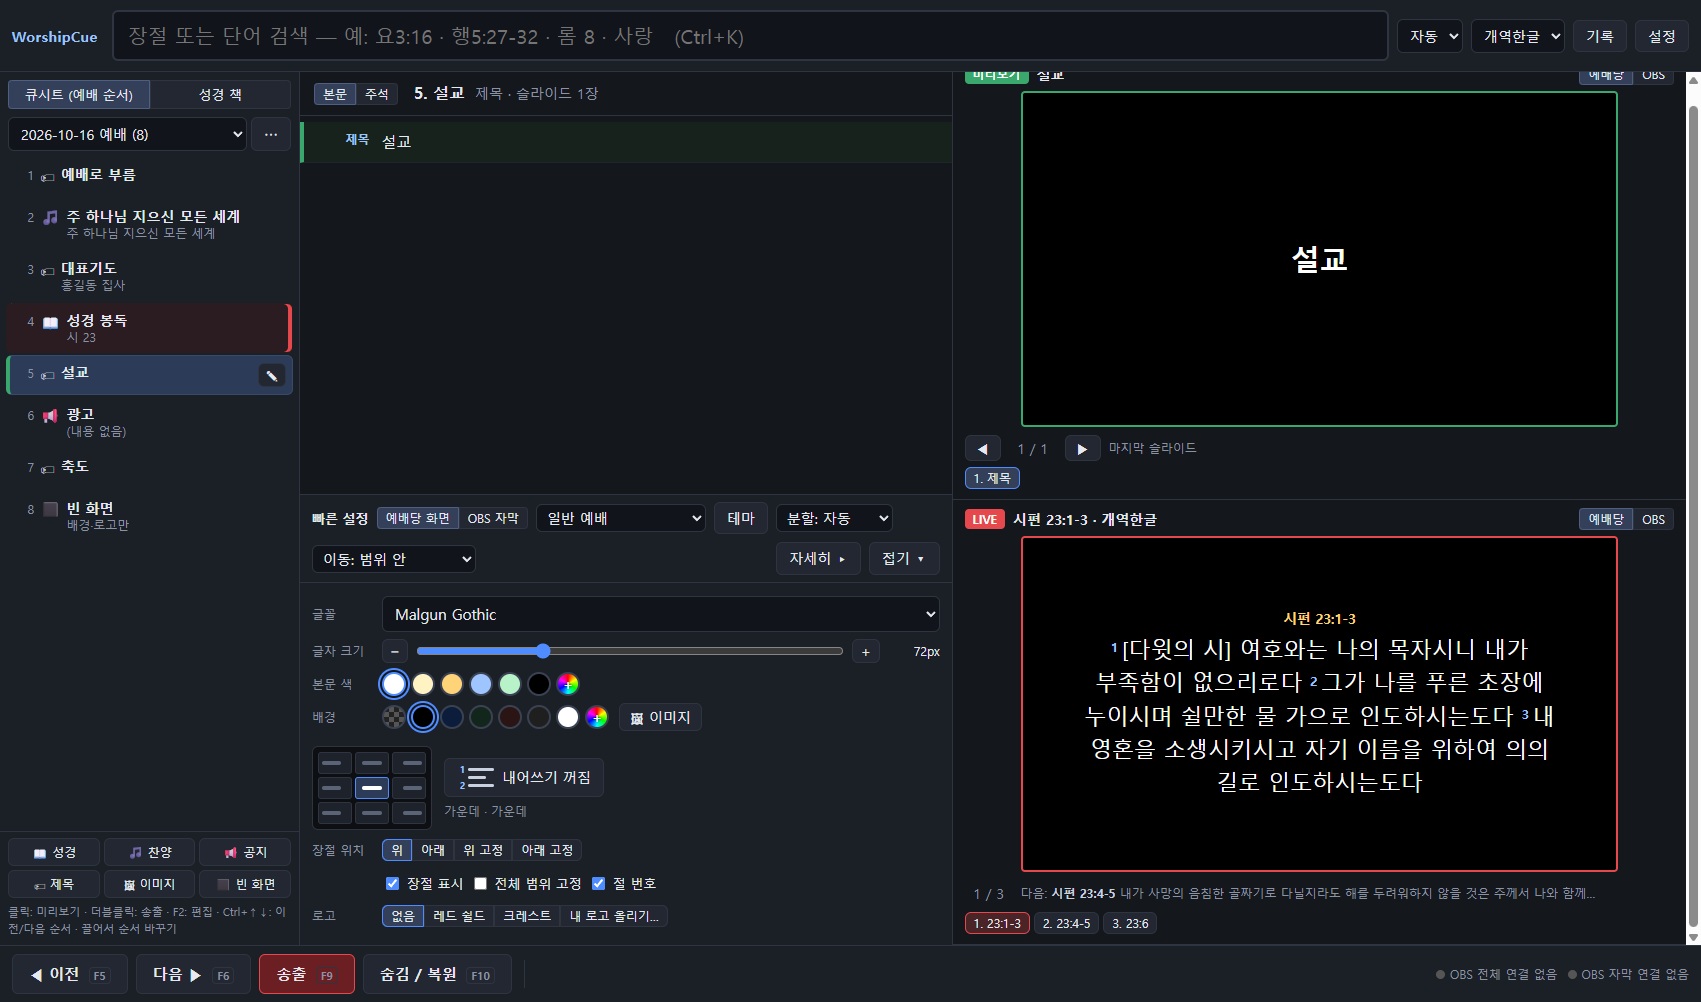
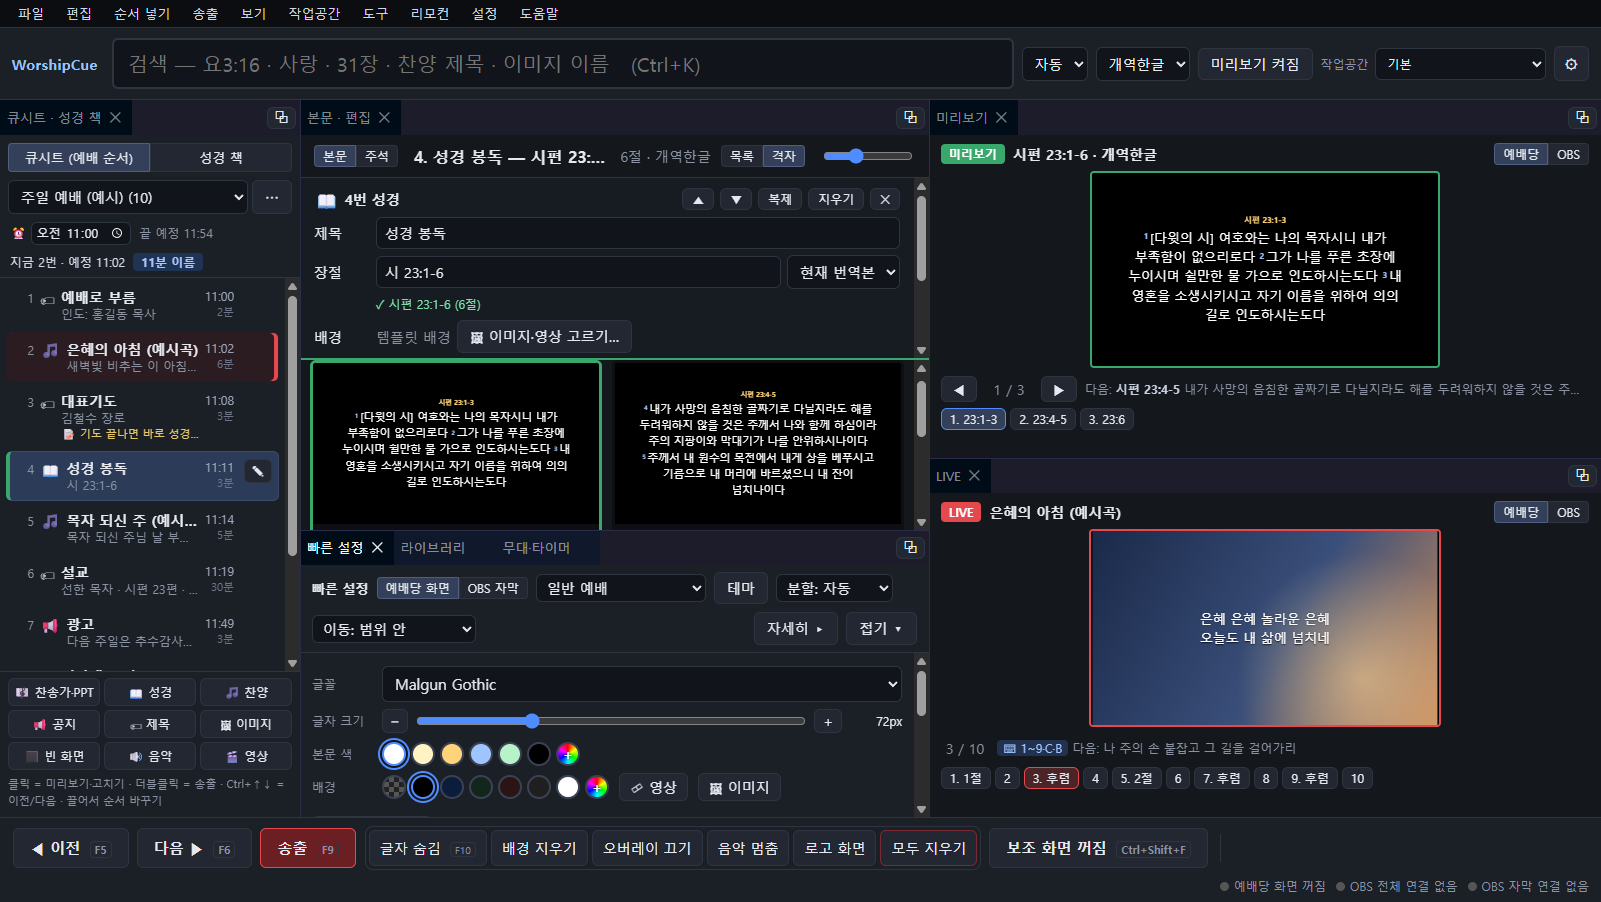
사용법 안내 스크린샷 · 작업공간 배치 다듬기 · 순서 배경 위 가사 안 보이던 문제
- README 에 '그림으로 보는 사용법' (예배 준비·예배 중·무대 화면·리모컨·작업공간), 스크린샷은 예시 데이터(가상 이름·직접 지은 가사·개역한글)로 촬영
- 사용자 설명서: 작업공간(2-H), 리모컨 메뉴, 화면 구성 갱신
- 고침: 순서별 배경 이미지가 있는 찬양·공지에서 가사가 배경 아래로 가려지던 문제
- 예배 준비·예배 중 작업공간에서 미리보기·LIVE 가 위쪽 절반에 갇히던 배치 순서
- 슬라이드 단추 '2. 2' → '2', 가운데 머리 한 줄, AI·작업공간 창 높이 자동

diff --git a/src/web/control/control.js b/src/web/control/control.js
@@ -334,6 +334,8 @@
   async function directSend() {
     if (directMode() && Date.now() - lastUserAct < 2500) await sendPreview();
   }
+  /** 슬라이드 단추 글: '3. 후렴' (이름이 번호와 같으면 번호만) */
+  const chipLabel = (i, t) => (t && String(t) !== String(i + 1) ? `${i + 1}. ${t}` : String(i + 1));
   function renderStudio() {
     const b = $('#btnStudio');
     if (!b || !app.state) return;
@@ -414,7 +416,7 @@
     $('#pvCount').textContent = `${p.index + 1} / ${p.slides.length}`;
     const nx = p.slides[p.index + 1];
     $('#pvNextHint').innerHTML = nx ? `다음: <b>${esc(nx.ref)}</b> ${esc(slideSnippet(nx))}` : '<span>마지막 슬라이드</span>';
-    $('#pvSlides').innerHTML = p.slides.map((s, i) => `<button data-i="${i}" class="${i === p.index ? 'on' : ''}" title="${esc(slideSnippet(s))}">${i + 1}. ${esc(s.label || shortRef(s.ref) || slideSnippet(s).slice(0, 12))}</button>`).join('');
+    $('#pvSlides').innerHTML = p.slides.map((s, i) => `<button data-i="${i}" class="${i === p.index ? 'on' : ''}" title="${esc(slideSnippet(s))}">${esc(chipLabel(i, s.label || shortRef(s.ref) || slideSnippet(s).slice(0, 12)))}</button>`).join('');
     $('#pvSlides button.on')?.scrollIntoView({ block: 'nearest' });
     updateCommentary();
     if (window.BCGrid) window.BCGrid.update();
@@ -462,7 +464,7 @@
     $('#lvNextHint').title = hasJump ? '찬양 바로 가기: 1~9 = 절 · C = 후렴 · B = 브릿지 · E = 엔딩' : '';
     $('#lvNextHint').innerHTML = (hasJump ? '<span class="jump-hint">⌨ 1~9·C·B</span> ' : '') + (nx ? `다음: <b>${esc(nx.ref)}</b> ${esc(slideSnippet(nx))}`
       : settings().navMode === 'continuous' ? '범위 끝 — F6을 누르면 다음 절로 이어갑니다' : '마지막 슬라이드');
-    $('#lvSlides').innerHTML = live.slides.map((ref, i) => `<button data-i="${i}" class="${i === live.index ? 'on' : ''}">${i + 1}. ${esc(ref.startsWith('¶') ? ref.slice(1) : shortRef(ref))}</button>`).join('');
+    $('#lvSlides').innerHTML = live.slides.map((ref, i) => `<button data-i="${i}" class="${i === live.index ? 'on' : ''}">${esc(chipLabel(i, ref.startsWith('¶') ? ref.slice(1) : shortRef(ref)))}</button>`).join('');
     $('#lvSlides button.on')?.scrollIntoView({ block: 'nearest' });
     renderVideoBar();
     renderLayerButtons();

diff --git a/src/web/control/dock.js b/src/web/control/dock.js
@@ -96,9 +96,9 @@
       api.clear();
       group(['cue']);
       group(['main'], { referencePanel: 'cue', direction: 'right' });
-      group(['library', 'quick', 'stage'], { referencePanel: 'main', direction: 'below' });
       group(['preview'], { referencePanel: 'main', direction: 'right' });
       group(['live'], { referencePanel: 'preview', direction: 'below' });
+      group(['library', 'quick', 'stage'], { referencePanel: 'main', direction: 'below' });
       size('cue', { width: 340 }); size('preview', { width: Math.round(W * 0.28) }); size('library', { height: Math.round(H * 0.45) });
     } },
     { id: 'b-live', name: '예배 중 (송출 크게)', desc: '미리보기·LIVE 를 크게, 큐시트와 슬라이드 격자, 아래에 무대·타이머', build: () => {
@@ -106,10 +106,10 @@
       api.clear();
       group(['cue']);
       group(['main'], { referencePanel: 'cue', direction: 'right' });
-      group(['stage', 'library', 'quick'], { referencePanel: 'main', direction: 'below' });
       group(['live'], { referencePanel: 'main', direction: 'right' });
       group(['preview'], { referencePanel: 'live', direction: 'below' });
-      size('cue', { width: 300 }); size('live', { width: Math.round(W * 0.5) }); size('stage', { height: Math.round(H * 0.33) });
+      group(['stage', 'library', 'quick'], { referencePanel: 'main', direction: 'below' });
+      size('cue', { width: 300 }); size('live', { width: Math.round(W * 0.48) }); size('preview', { height: Math.round(H * 0.42) }); size('stage', { height: Math.round(H * 0.4) });
       if (window.BCGrid && !window.BCGrid.isOn()) { const b = document.querySelector('#slideView [data-sv="grid"]'); if (b) b.click(); }
     } },
     { id: 'b-simple', name: '간단 (큐시트 + LIVE)', desc: '큐시트와 LIVE 만. 노트북 등 작은 화면용', build: () => {
@@ -144,6 +144,7 @@
     app.cmd('setActiveWorkspace', { id });
     if (app.state) app.state.settings.activeWorkspace = id;
     requestAnimationFrame(fitScreens);
+    setTimeout(fitScreens, 250); setTimeout(fitScreens, 700); // 배치가 다 잡힌 뒤 화면 크기 다시 맞춤
     renderWorkspaceSelect();
     app.showMsg(`작업공간: ${ws.name}`, 'ok', 1200);
   }

diff --git a/src/web/control/control.css b/src/web/control/control.css
@@ -517,3 +517,10 @@ html { overflow: hidden; }
   .ws-pick > span { display: none; }
 }
 @media (max-width: 1100px) { .brand { display: none; } }
+/* 가운데 머리: 좁아도 한 줄 (제목은 말줄임) */
+.center-head { align-items: center; flex-wrap: nowrap; min-width: 0; }
+.center-head .view-tabs { display: inline-flex; flex: none; }
+#resultTitle { min-width: 0; overflow: hidden; text-overflow: ellipsis; white-space: nowrap; flex: 0 1 auto; }
+#resultInfo { white-space: nowrap; flex: none; }
+/* 내용이 짧은 창은 내용 높이만큼 */
+.modal-box:has(.ai-form), .modal-box:has(.ws-manage) { height: auto; max-height: 90vh; width: min(980px, 94vw); }

diff --git a/src/web/shared/render.css b/src/web/shared/render.css
@@ -11,7 +11,7 @@
   display: flex; flex-direction: column;
   transition: opacity var(--bc-fade, 300ms) ease;
 }
-.bc-block { box-sizing: border-box; max-width: 100%; }
+.bc-block { box-sizing: border-box; max-width: 100%; position: relative; } /* 순서별 배경(.bc-slidebg, absolute) 위에 글자 */
 .bc-text {
   word-break: keep-all;          /* 한국어는 어절 단위 줄바꿈 */
   overflow-wrap: anywhere;

diff --git a/docs/사용자설명서.md b/docs/사용자설명서.md
@@ -24,12 +24,13 @@
 
 | 위치 | 내용 |
 |---|---|
-| 상단 | 검색창, 검색 방식(자동/장절/본문), 번역본 선택, 기록, 설정 |
+| 맨 위 | 메뉴바 (파일 · 편집 · 순서 넣기 · 송출 · 보기 · 작업공간 · 도구 · 리모컨 · 설정 · 도움말) |
+| 상단 | 검색창, 검색 방식(자동/장절/본문), 번역본, 미리보기 켜기·끄기, **작업공간** 선택칸, ⚙ 설정 |
 | 왼쪽 | **큐시트**(예배 순서) / 성경 66권 목록 탭 |
 | 가운데 | 큐시트 순서를 고르면 위쪽에 **편집칸**(입력 즉시 자동 저장), 아래에 슬라이드 목록. 성경 검색 시 찾은 본문(절 목록) 또는 본문 검색 결과. 초록 줄 = 미리보기 중인 절, 빨간 줄 = 송출 중인 절 |
 | 오른쪽 위 | **미리보기** (초록 테두리) — 송출하면 이렇게 나갑니다 |
 | 오른쪽 아래 | **LIVE** (빨간 테두리) — 지금 실제로 나가고 있는 화면. 숨김 중이면 점선 테두리와 "숨김 중" 표시 |
-| 하단 | 이전·다음·송출·숨김 버튼, 분할 방식, 이동 방식, 출력 연결 상태 |
+| 하단 | 이전·다음·송출 / 지우기 단추 묶음(글자·배경·오버레이·음악·로고·모두), 보조 화면, 출력 연결 상태 |
 
 미리보기·LIVE 오른쪽의 **예배당 / OBS** 버튼으로 각 출력 디자인을 확인할 수 있습니다.
 
@@ -45,8 +46,10 @@
 | 편집 | 고른 순서 고치기(F2)·위로·아래로·복제·지우기, 검색창, 성경 책 목록 |
 | 순서 넣기 | 찬송가·PPT, 성경, 찬양, 공지, 제목, 이미지, 영상, 음악, 빈 화면 |
 | 송출 | 송출(F9)·다음(F6)·이전(F5), 글자 숨김·배경 지우기·오버레이 끄기·음악 멈춤·로고 화면·모두 지우기, 미리보기 켜기·끄기, 보조 화면 |
-| 보기 | 패널 켜고 끄기, 목록/격자, 화면 배치, 무대 화면 창 |
+| 보기 | 패널 켜고 끄기, 목록/격자, 무대 화면 창 |
+| 작업공간 | 작업공간 바꾸기(Ctrl+Alt+1~9), 지금 배치 저장·덮어쓰기, 작업공간 관리, 패널 보이기·잠그기, 기본 배치로 |
 | 도구 | 라이브러리 각 탭, 무대 화면·설교 타이머, 휴대폰 리모컨 |
+| 리모컨 | 휴대폰 리모컨 열기(QR·주소·PIN), 켜기·끄기, PIN 바꾸기. 켜져 있으면 메뉴 이름 옆 초록 점 |
 | 설정 | 테마, 출력, 템플릿, 검색·분할, 단축키, 성경 데이터 |
 
 ## 2-B. 주보로 큐시트 만들기 (AI)
@@ -79,17 +82,33 @@
 - '무대·타이머' 패널(또는 `도구` 메뉴)에서 `🖥 무대 화면 창 열기` → 설교자 모니터로 끌어다 놓습니다. 같은 주소를 다른 PC·태블릿 브라우저나 OBS 에서 열어도 됩니다.
 - 설교 타이머: 5~40분 단추 또는 직접 입력 → 시작. 일시정지·계속·±1분·지우기. 5분 전에는 노란색, 시간이 지나면 빨간색으로 넘긴 시간(+02:13)을 보여 줍니다.
 - 무대 메시지: 글을 쓰고 `보내기`(또는 '5분 남았습니다' 같은 빠른 단추). 무대 화면 위쪽에 깜빡이며 보입니다. `지우기` 로 내립니다.
-- **휴대폰 리모컨**: 같은 패널 아래 '📱 휴대폰 리모컨' 을 켜면 주소와 PIN 이 나옵니다. 같은 Wi-Fi 의 휴대폰 브라우저에서 주소를 열고 PIN 을 넣으면 이전·다음·숨김, 절·후렴 바로 가기, 큐시트 순서 송출, 무대 메시지·타이머를 쓸 수 있습니다. 처음 켤 때 Windows 방화벽 창이 뜨면 '개인 네트워크' 를 허용하세요.
+- **휴대폰 리모컨**: 메뉴바 `리모컨 → 리모컨 열기` 에서 켜면 QR 코드·주소·PIN 이 나옵니다. 휴대폰 카메라로 QR 을 찍으면 바로 열립니다. 같은 Wi-Fi 의 휴대폰 브라우저에서 주소를 열고 PIN 을 넣으면 이전·다음·숨김, 절·후렴 바로 가기, 큐시트 순서 송출, 무대 메시지·타이머를 쓸 수 있습니다. 처음 켤 때 Windows 방화벽 창이 뜨면 '개인 네트워크' 를 허용하세요.
 
 ## 2-G. 화면 지우기 단추
 
 아래 단추줄: `글자 숨김(F10)` · `배경 지우기`(배경 이미지·영상 숨김) · `오버레이 끄기`(다시 누르면 켜져 있던 것만 다시) · `음악 멈춤`(2.5초 페이드) · `로고 화면`(검은 바탕 가운데 로고) · `모두 지우기`. 켜진 상태의 단추는 노란색입니다.
 
+## 2-H. 작업공간 (화면 배치 저장·바꾸기)
+
+작업공간은 패널 배치를 이름 붙여 저장해 둔 것입니다. 상황마다 바꿔 씁니다.
+
+| 기본 제공 | 단축키 | 쓰임 |
+|---|---|---|
+| 기본 | Ctrl+Alt+1 | 큐시트 · 본문/편집 · 빠른 설정·라이브러리 · 미리보기·LIVE |
+| 예배 준비 (편집 크게) | Ctrl+Alt+2 | 큐시트·편집칸·라이브러리를 크게, 미리보기·LIVE 는 작게 |
+| 예배 중 (송출 크게) | Ctrl+Alt+3 | LIVE·미리보기를 크게, 슬라이드 격자, 아래 무대·타이머 |
+| 간단 (큐시트 + LIVE) | Ctrl+Alt+4 | 노트북 등 작은 화면 |
+
+- 바꾸기: 상단 '작업공간' 선택칸, 메뉴 `작업공간`, 또는 Ctrl+Alt+숫자.
+- 저장: 패널을 원하는 대로 배치 → `작업공간 → 지금 배치를 새 작업공간으로 저장…` → 이름(예: 수요예배, 찬양팀 연습). 내 작업공간은 Ctrl+Alt+5 부터 차례로.
+- 고치기: 작업공간을 연 채로 배치를 바꾼 뒤 `지금 작업공간에 배치 덮어쓰기`. 이름 바꾸기·순서(▲)·지우기는 `작업공간 관리…`.
+- 기본 제공 작업공간은 덮어쓸 수 없습니다 (덮어쓰기를 누르면 새 작업공간으로 저장).
+
 ## 2-0. 화면 배치 바꾸기 · 미리보기 끄기
 
 - 각 패널 위의 **탭을 끌어** 다른 패널의 가장자리(위·아래·왼쪽·오른쪽)에 놓으면 그쪽에 붙고, 가운데에 놓으면 탭으로 합쳐집니다. 경계선을 끌면 크기가 바뀝니다.
 - 탭 줄 오른쪽 ⧉ = 떠 있는 창으로 띄우기, ⇲ = 다시 붙이기. 탭의 ✕ = 패널 닫기.
-- 상단 `화면 배치`: 닫은 패널 다시 켜기 · **배치 잠그기**(예배 중 실수 방지) · 기본 배치로 되돌리기. 배치는 자동 저장됩니다.
+- `작업공간 → 패널 보이기·잠그기…`: 닫은 패널 다시 켜기 · **배치 잠그기**(예배 중 실수 방지) · 기본 배치로 되돌리기. 배치는 자동 저장됩니다.
 - 상단 `미리보기 켜짐` 단추를 누르면 **미리보기 끔 · 바로 송출** 이 됩니다. 미리보기 패널이 닫히고, 큐시트 순서·본문·슬라이드를 클릭하면 바로 송출됩니다. 다시 누르면 미리보기 방식으로 돌아갑니다.
 
 ## 2-1. 큐시트 바로 고치기
@@ -217,6 +236,7 @@
 | Ctrl+Home | 미리보기를 현재 장 처음으로 |
 | Ctrl+B | 책 목록 |
 | Ctrl+H | 송출 기록 |
+| Ctrl+Alt+1~9 | 작업공간 바꾸기 |
 | Ctrl+Shift+F | 전체 화면 출력 켜기/끄기 |
 
 - **설정 → 단축키**에서 모두 바꿀 수 있습니다. 중복된 키, 글자키 단독(A, 1, Enter 등)은 등록되지 않습니다.
